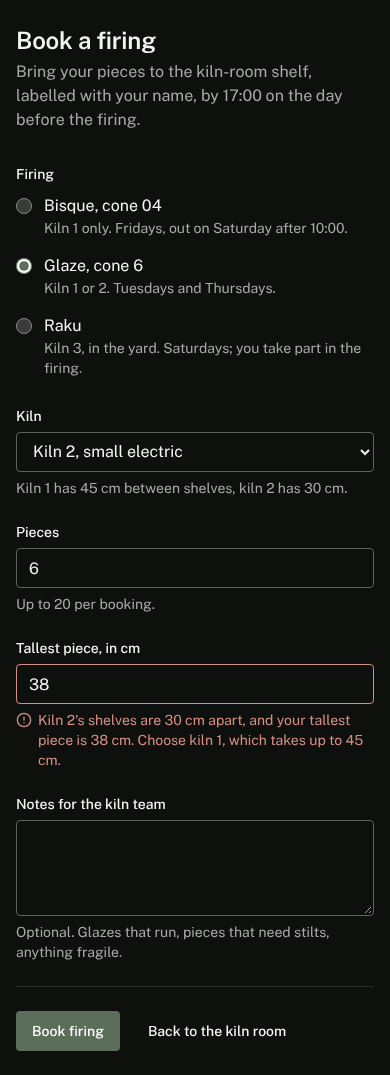
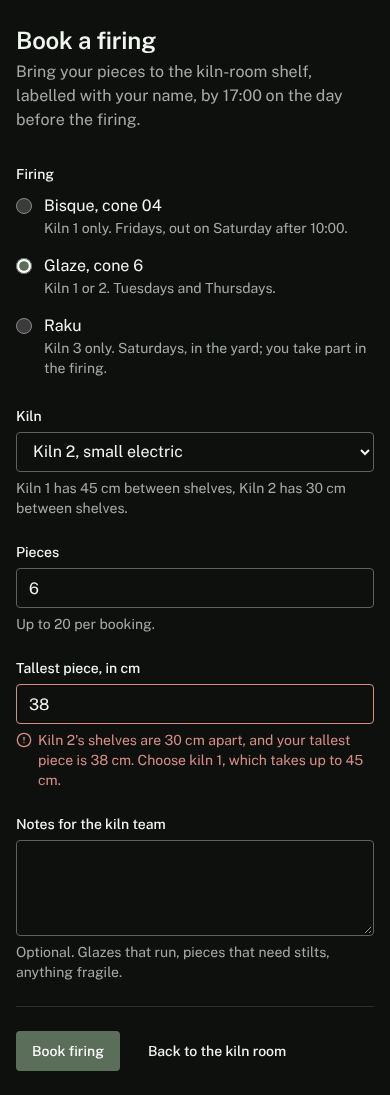
Address review: contrast scope, touch targets, kiln facts, unsaved guard, load updates, state matrix
Claude-Session: https://claude.ai/code/session_01QhgcP1H34uBUrT8HmPcADN

diff --git a/ui-library/examples/screens/book-firing.tsx b/ui-library/examples/screens/book-firing.tsx
@@ -7,35 +7,45 @@ import * as React from "react";
 import { AsyncButton, useAsyncAction } from "@/components/ui/async-button";
 import { Button } from "@/components/ui/button";
 import { ChoiceGroup, Field, Input, NativeSelect, Textarea } from "@/components/ui/field";
+import { MAX_PIECES_PER_BOOKING, firingTypes, kilns, type FiringType, type KilnId } from "./sample-data";
 
 type Values = { firing: string; kiln: string; pieces: string; tallest: string; notes: string };
 type Errors = Partial<Record<keyof Values, string>>;
 
-const SHELF_GAP_CM: Record<string, number> = { "1": 45, "2": 30 };
+const kilnList = (ids: KilnId[]) => (ids.length === 1 ? `Kiln ${ids[0]} only` : `Kiln ${ids.join(" or ")}`);
 
-const firings = [
-  { value: "bisque", label: "Bisque, cone 04", detail: "Kiln 1 only. Fridays, out on Saturday after 10:00." },
-  { value: "glaze", label: "Glaze, cone 6", detail: "Kiln 1 or 2. Tuesdays and Thursdays." },
-  { value: "raku", label: "Raku", detail: "Kiln 3, in the yard. Saturdays; you take part in the firing." },
-];
+const firings = (Object.keys(firingTypes) as FiringType[]).map((value) => ({
+  value,
+  label: firingTypes[value].label,
+  detail: `${kilnList(firingTypes[value].kilns)}. ${firingTypes[value].when}`,
+}));
+
+const gapped = (Object.keys(kilns) as KilnId[]).filter((k) => kilns[k].shelfGapCm);
+const largest = gapped.reduce((a, b) => (kilns[b].shelfGapCm! > kilns[a].shelfGapCm! ? b : a));
+const shelfHint = gapped.map((k) => `Kiln ${k} has ${kilns[k].shelfGapCm} cm between shelves`).join(", ") + ".";
 
 export function validate(v: Values): Errors {
   const e: Errors = {};
   const pieces = Number(v.pieces);
   const tallest = Number(v.tallest);
   if (!v.firing) e.firing = "Choose a firing.";
-  if (v.firing === "bisque" && v.kiln !== "1") e.kiln = "Bisque firings use kiln 1. Choose kiln 1.";
-  if (v.firing === "raku" && v.kiln !== "3") e.kiln = "Raku is fired in kiln 3, in the yard. Choose kiln 3.";
-  if (v.firing === "glaze" && v.kiln === "3") e.kiln = "Kiln 3 only fires raku. Choose kiln 1 or 2.";
+  else {
+    const allowed = firingTypes[v.firing as FiringType].kilns;
+    const where = `kiln ${allowed.join(" or ")}`;
+    const name = firingTypes[v.firing as FiringType].label.split(",")[0];
+    if (!allowed.includes(v.kiln as KilnId)) e.kiln = `${name} firings use ${where}. Choose ${where}.`;
+  }
   if (!v.pieces) e.pieces = "Enter how many pieces you are bringing.";
   else if (!Number.isInteger(pieces) || pieces < 1) e.pieces = "Enter a whole number of pieces, 1 or more.";
-  else if (pieces > 20) e.pieces = "One booking holds up to 20 pieces. Make a second booking for the rest.";
+  else if (pieces > MAX_PIECES_PER_BOOKING)
+    e.pieces = `One booking holds up to ${MAX_PIECES_PER_BOOKING} pieces. Make a second booking for the rest.`;
+  const gap = kilns[v.kiln as KilnId]?.shelfGapCm;
   if (!v.tallest) e.tallest = "Enter the height of your tallest piece, in centimetres.";
-  else if (SHELF_GAP_CM[v.kiln] && tallest > SHELF_GAP_CM[v.kiln])
+  else if (gap && tallest > gap)
     e.tallest =
-      v.kiln === "2"
-        ? `Kiln 2's shelves are 30 cm apart, and your tallest piece is ${tallest} cm. Choose kiln 1, which takes up to 45 cm.`
-        : `Kiln 1 takes pieces up to 45 cm. Ask the kiln team about anything taller.`;
+      v.kiln !== largest
+        ? `Kiln ${v.kiln}'s shelves are ${gap} cm apart, and your tallest piece is ${tallest} cm. Choose kiln ${largest}, which takes up to ${kilns[largest].shelfGapCm} cm.`
+        : `Kiln ${v.kiln} takes pieces up to ${gap} cm. Ask the kiln team about anything taller.`;
   return e;
 }
 
@@ -60,6 +70,12 @@ export function BookFiring({ initial, showErrors = false }: { initial?: Partial<
     window.addEventListener("beforeunload", warn);
     return () => window.removeEventListener("beforeunload", warn);
   }, [dirty]);
+
+  // beforeunload only covers leaving the document. In-app navigation (this link changes the hash,
+  // which swaps the screen) asks the same question itself.
+  const confirmLeave = (e: React.MouseEvent) => {
+    if (dirty && !window.confirm("Leave without booking? What you have entered will be lost.")) e.preventDefault();
+  };
 
   const set = (key: keyof Values) => (value: string) => {
     setValues((v) => ({ ...v, [key]: value }));
@@ -92,22 +108,24 @@ export function BookFiring({ initial, showErrors = false }: { initial?: Partial<
       <form ref={formRef} noValidate onSubmit={onSubmit} className="grid gap-6">
         <ChoiceGroup legend="Firing" name="firing" choices={firings} value={values.firing} onChange={set("firing")} error={errors.firing} />
 
-        <Field label="Kiln" error={errors.kiln} hint="Kiln 1 has 45 cm between shelves, kiln 2 has 30 cm.">
+        <Field label="Kiln" error={errors.kiln} hint={shelfHint}>
           <NativeSelect name="kiln" value={values.kiln} onChange={(e) => set("kiln")(e.target.value)}>
-            <option value="1">Kiln 1, large electric</option>
-            <option value="2">Kiln 2, small electric</option>
-            <option value="3">Kiln 3, raku (gas, in the yard)</option>
+            {(Object.keys(kilns) as KilnId[]).map((k) => (
+              <option key={k} value={k}>
+                {kilns[k].name}
+              </option>
+            ))}
           </NativeSelect>
         </Field>
 
         <div className="grid gap-6 sm:grid-cols-2">
-          <Field label="Pieces" error={errors.pieces} hint="Up to 20 per booking.">
+          <Field label="Pieces" error={errors.pieces} hint={`Up to ${MAX_PIECES_PER_BOOKING} per booking.`}>
             <Input
               name="pieces"
               type="number"
               inputMode="numeric"
               min={1}
-              max={20}
+              max={MAX_PIECES_PER_BOOKING}
               autoComplete="off"
               value={values.pieces}
               onChange={(e) => set("pieces")(e.target.value)}
@@ -133,7 +151,9 @@ export function BookFiring({ initial, showErrors = false }: { initial?: Partial<
         <div className="flex flex-wrap items-center gap-3 border-t border-border pt-6">
           <AsyncButton type="submit" variant="default" phase={phase} labels={{ idle: "Book firing", pending: "Booking…", done: "Booked" }} />
           <Button variant="ghost" asChild>
-            <a href="#kiln-room">Back to the kiln room</a>
+            <a href="#kiln-room" onClick={confirmLeave}>
+              Back to the kiln room
+            </a>
           </Button>
         </div>
       </form>

diff --git a/ui-library/examples/screens/system.tsx b/ui-library/examples/screens/system.tsx
@@ -6,9 +6,12 @@ import * as React from "react";
 import { Check, Flame, RefreshCw, Thermometer, TriangleAlert } from "lucide-react";
 import { AsyncButton, type Phase } from "@/components/ui/async-button";
 import { Button, IconButton } from "@/components/ui/button";
-import { DataTable } from "@/components/ui/data-table";
+import { DataTable, TableSkeleton } from "@/components/ui/data-table";
 import { DataView, EmptyState, Skeleton } from "@/components/ui/data-view";
-import { Field, Input, NativeSelect } from "@/components/ui/field";
+import { ChoiceGroup, Field, Input, NativeSelect, Textarea } from "@/components/ui/field";
+import { LineChart } from "@/components/ui/line-chart";
+import { PageHeader } from "@/components/ui/page-header";
+import { UndoBar } from "@/components/ui/undo";
 import { Metric, MetricStrip } from "@/components/ui/metric";
 import { Status } from "@/components/ui/status";
 
@@ -96,7 +99,42 @@ export function SystemPage() {
           <Field label="Member number" hint="Set by the studio.">
             <Input name="member-demo" defaultValue="0417" disabled />
           </Field>
+          <Field label="Notes for the kiln team" hint="Optional.">
+            <Textarea name="notes-demo" defaultValue="The tall jug needs a stilt." />
+          </Field>
+          <ChoiceGroup
+            legend="Firing"
+            name="firing-demo"
+            value="glaze"
+            onChange={noop}
+            choices={[
+              { value: "bisque", label: "Bisque, cone 04", detail: "Kiln 1 only." },
+              { value: "glaze", label: "Glaze, cone 6", detail: "Kiln 1 or 2." },
+            ]}
+          />
+          <ChoiceGroup
+            legend="Firing (with error)"
+            name="firing-error-demo"
+            value=""
+            onChange={noop}
+            error="Choose a firing."
+            choices={[
+              { value: "bisque", label: "Bisque, cone 04" },
+              { value: "glaze", label: "Glaze, cone 6" },
+            ]}
+          />
         </div>
+      </Row>
+
+      <Row title="PageHeader">
+        <PageHeader
+          as="h2"
+          title="Kiln room"
+          scope="Thursday 5 November, updated 14:10"
+          actions={<Button variant="default">Book a firing</Button>}
+          finding={{ text: "Kiln 2 will be safe to open at about 14:50.", action: <Button>Message the owners</Button> }}
+        />
+        <PageHeader as="h2" title="Members" scope="60 members" />
       </Row>
 
       <Row title="Metric">
@@ -105,6 +143,37 @@ export function SystemPage() {
           <Metric label="Pieces fired this month" value="386" note="41 more than October" />
           <Metric label="Failed firings this month" value="0" note="None since 12 August" />
         </MetricStrip>
+      </Row>
+
+      <Row title="LineChart">
+        <LineChart
+          label="Example: a short firing"
+          series={[
+            { x: 0, y: 20 },
+            { x: 60, y: 300 },
+            { x: 120, y: 620 },
+            { x: 180, y: 980 },
+            { x: 240, y: 1060 },
+            { x: 300, y: 700 },
+            { x: 360, y: 450 },
+          ]}
+          seriesLabel="Measured temperature"
+          planned={[
+            { x: 0, y: 20 },
+            { x: 240, y: 1060 },
+          ]}
+          plannedLabel="Controller program"
+          band={{ below: 200, label: "Safe to open below 200 °C" }}
+          formatX={(m) => `${m / 60} h`}
+          formatY={(c) => `${c.toLocaleString("en-GB")}\u00a0°C`}
+          xTicks={[0, 120, 240, 360]}
+          colour="var(--warning)"
+          height={200}
+        />
+      </Row>
+
+      <Row title="UndoBar">
+        <UndoBar inline pending={{ id: "demo", message: "Withdrew Dev Raman's 8 pieces from kiln 1.", commit: noop }} onUndo={noop} />
       </Row>
 
       <Row title="DataView">
@@ -131,6 +200,10 @@ export function SystemPage() {
         >
           {() => null}
         </DataView>
+      </Row>
+
+      <Row title="TableSkeleton">
+        <TableSkeleton rows={3} columns={4} />
       </Row>
 
       <Row title="DataTable">

diff --git a/ui-library/examples/screens/kiln-room.tsx b/ui-library/examples/screens/kiln-room.tsx
@@ -36,10 +36,12 @@ const states: Record<KilnState, { tone: Tone; icon: LucideIcon; label: string }>
 };
 
 export function KilnRoom({ load }: { load: Load<Booking[]> }) {
-  const [rows, setRows] = React.useState<Booking[]>(load.status === "ready" ? load.data : []);
+  // Rows always come from the latest load; local state only records which ones the person has
+  // withdrawn (hidden at once, committed after the undo window), so a refresh never goes stale.
   const [hidden, setHidden] = React.useState<Set<string>>(new Set());
   const { pending, schedule, undo } = useUndoable();
 
+  const rows = load.status === "ready" ? load.data : [];
   const visible = rows.filter((r) => !hidden.has(r.id));
   const inKiln2 = visible.filter((r) => r.kiln === 2 && r.state === "cooling");
   const piecesInKiln2 = inKiln2.reduce((n, r) => n + r.pieces, 0);
@@ -51,7 +53,7 @@ export function KilnRoom({ load }: { load: Load<Booking[]> }) {
     schedule({
       id: b.id,
       message: `Withdrew ${b.member}'s ${b.pieces} pieces from kiln ${b.kiln}.`,
-      commit: () => setRows((rs) => rs.filter((r) => r.id !== b.id)),
+      commit: () => undefined, // stands in for the withdraw request; the row stays hidden
     });
   };
   const undoWithdraw = () => {

diff --git a/ui-library/examples/components/ui/undo.tsx b/ui-library/examples/components/ui/undo.tsx
@@ -43,9 +43,23 @@ export function useUndoable(windowMs = 8000) {
 // The bar lives in a polite live region that is always mounted, so screen readers hear the message
 // when it appears. It is fixed to the bottom of the viewport; a page that uses it keeps that much
 // bottom padding so the bar never covers the focused row.
-export function UndoBar({ pending, onUndo }: { pending: Pending | null; onUndo: () => void }) {
+export function UndoBar({
+  pending,
+  onUndo,
+  inline = false,
+}: {
+  pending: Pending | null;
+  onUndo: () => void;
+  /** Render in the flow instead of fixed to the viewport; for the state-matrix page. */
+  inline?: boolean;
+}) {
   return (
-    <div aria-live="polite" className="pointer-events-none fixed inset-x-0 bottom-4 z-50 flex justify-center px-4">
+    <div
+      aria-live="polite"
+      className={
+        inline ? "flex" : "pointer-events-none fixed inset-x-0 bottom-4 z-50 flex justify-center px-4"
+      }
+    >
       {pending && (
         <div className="pointer-events-auto flex max-w-lg items-center gap-4 rounded-overlay bg-foreground py-2 pr-2 pl-4 text-background shadow-overlay">
           <p className="min-w-0 type-body-sm">{pending.message}</p>

diff --git a/ui-library/examples/screens/sample-data.ts b/ui-library/examples/screens/sample-data.ts
@@ -76,3 +76,21 @@ export const bookings: Booking[] = [
 ];
 
 export const kiln1Shelves = { booked: 9, total: 14 };
+
+// The studio's kiln facts. The booking form's choices, hints and validation all read these, so a
+// change here changes what the form says and what it checks together.
+export type KilnId = "1" | "2" | "3";
+export const kilns: Record<KilnId, { name: string; shelfGapCm?: number }> = {
+  "1": { name: "Kiln 1, large electric", shelfGapCm: 45 },
+  "2": { name: "Kiln 2, small electric", shelfGapCm: 30 },
+  "3": { name: "Kiln 3, raku (gas, in the yard)" },
+};
+
+export type FiringType = "bisque" | "glaze" | "raku";
+export const firingTypes: Record<FiringType, { label: string; kilns: KilnId[]; when: string }> = {
+  bisque: { label: "Bisque, cone 04", kilns: ["1"], when: "Fridays, out on Saturday after 10:00." },
+  glaze: { label: "Glaze, cone 6", kilns: ["1", "2"], when: "Tuesdays and Thursdays." },
+  raku: { label: "Raku", kilns: ["3"], when: "Saturdays, in the yard; you take part in the firing." },
+};
+
+export const MAX_PIECES_PER_BOOKING = 20;

diff --git a/ui-library/examples/components/ui/page-header.tsx b/ui-library/examples/components/ui/page-header.tsx
@@ -9,8 +9,11 @@ export function PageHeader({
   scope,
   actions,
   finding,
+  as: Heading = "h1",
 }: {
   title: string;
+  /** The title's element: h1 on a screen, h2 where the header is shown inside another page. */
+  as?: "h1" | "h2";
   /** What the screen covers: a date, a range, a filter. */
   scope?: React.ReactNode;
   actions?: React.ReactNode;
@@ -20,7 +23,7 @@ export function PageHeader({
     <header className="grid gap-4">
       <div className="flex flex-wrap items-end justify-between gap-x-6 gap-y-3">
         <div className="grid min-w-0 gap-0.5">
-          <h1 className="type-title text-balance">{title}</h1>
+          <Heading className="type-title text-balance">{title}</Heading>
           {scope && <p className="type-body-sm text-muted-foreground">{scope}</p>}
         </div>
         {actions && <div className="flex flex-wrap gap-2">{actions}</div>}

diff --git a/ui-library/examples/app/globals.css b/ui-library/examples/app/globals.css
@@ -64,14 +64,17 @@
   --surface-sunken: var(--neutral-1);
 }
 
-@media (pointer: coarse) {
-  :root { --control-h: 2.75rem; --control-h-sm: 2.5rem; }
-}
 [data-density="compact"] { --control-h: 2rem; --control-h-sm: 1.75rem; }
+/* After the compact rule, so a coarse pointer always wins: every control, small or compact,
+   stays a 44px target on touch. */
+@media (pointer: coarse) {
+  :root, [data-density="compact"] { --control-h: 2.75rem; --control-h-sm: 2.75rem; }
+}
 
 /* More contrast: the text roles from the same seeds at palette.mjs --contrast 1. */
 @media (prefers-contrast: more) {
-  :root {
+  /* :not(.dark), so these light-theme inks never land on a dark root. */
+  :root:not(.dark) {
     --foreground: oklch(6.7% 0 0);
     --muted-foreground: oklch(36.7% 0.008 137.8);
     --accent-foreground: oklch(7.9% 0.01 144.6);

diff --git a/ui-library/tokens.md b/ui-library/tokens.md
@@ -173,18 +173,23 @@ product token, recorded in DESIGN.md with its reason.
 
 ```css
 :root { --control-h: 2.5rem; --control-h-sm: 2rem; }
-@media (pointer: coarse) { :root { --control-h: 2.75rem; --control-h-sm: 2.5rem; } }
 [data-density="compact"] { --control-h: 2rem; --control-h-sm: 1.75rem; }
+@media (pointer: coarse) {
+  :root, [data-density="compact"] { --control-h: 2.75rem; --control-h-sm: 2.75rem; }
+}
 ```
 
 Every control's height reads `--control-h` (`h-(--control-h)`), so button, input and
-select move together, and touch screens get 44px targets without a separate variant.
+select move together. On a coarse pointer every control, small or compact, is a 44px
+target: the touch rule comes after the compact one so it always wins (checked in
+Chromium with touch emulation: all buttons 44px with `data-density="compact"`).
 
 ## 11. Contrast and dark mode
 
 - **More contrast**: the text roles from the same seeds at `palette.mjs --contrast 1`,
-  applied under `@media (prefers-contrast: more)`. Only roles that gain contrast are
-  overridden (see the limit in [`README.md`](./README.md) §7).
+  applied under `@media (prefers-contrast: more)`. The light inks are scoped to
+  `:root:not(.dark)` so they never land on a dark root (an unscoped `:root` rule there
+  would turn dark-mode text near-black). Only roles that gain contrast are overridden (see the limit in [`README.md`](./README.md) §7).
 - **Dark** is generated, not inverted: each step is re-solved against the dark ground
   (`../ux-colour-science.md` §7). `color-scheme: dark` is set so native controls and
   scrollbars follow. `@custom-variant dark (&:is(.dark *))` scopes dark tokens to a

diff --git a/changelog.md b/changelog.md
@@ -39,6 +39,13 @@ defaults are what make generated UI look the same.
   text; `palette.mjs` has no status roles, so they were solved by hand with its colour
   library; `slop-lint` does not yet flag stock size classes (`text-sm`) in a project
   that has removed them. No new sources were read for this change.
+- Review fixes on the same PR (Codex review): high-contrast light inks no longer
+  override a dark root; small and compact controls stay 44px on touch; kiln facts moved
+  into `sample-data.ts` and the booking form derives its choices, hints and errors from
+  them; the form asks before in-app navigation discards entries; the kiln room derives
+  rows from each load instead of only the first; the state-matrix page now shows every
+  example component (Textarea, ChoiceGroup, PageHeader, LineChart, UndoBar,
+  TableSkeleton were missing).
 
 **Blocked sources retried and processed**, on branch `claude/project-thread-ox5cth`.
 Asked to look at the doc listing sources the first pass could not reach and process
